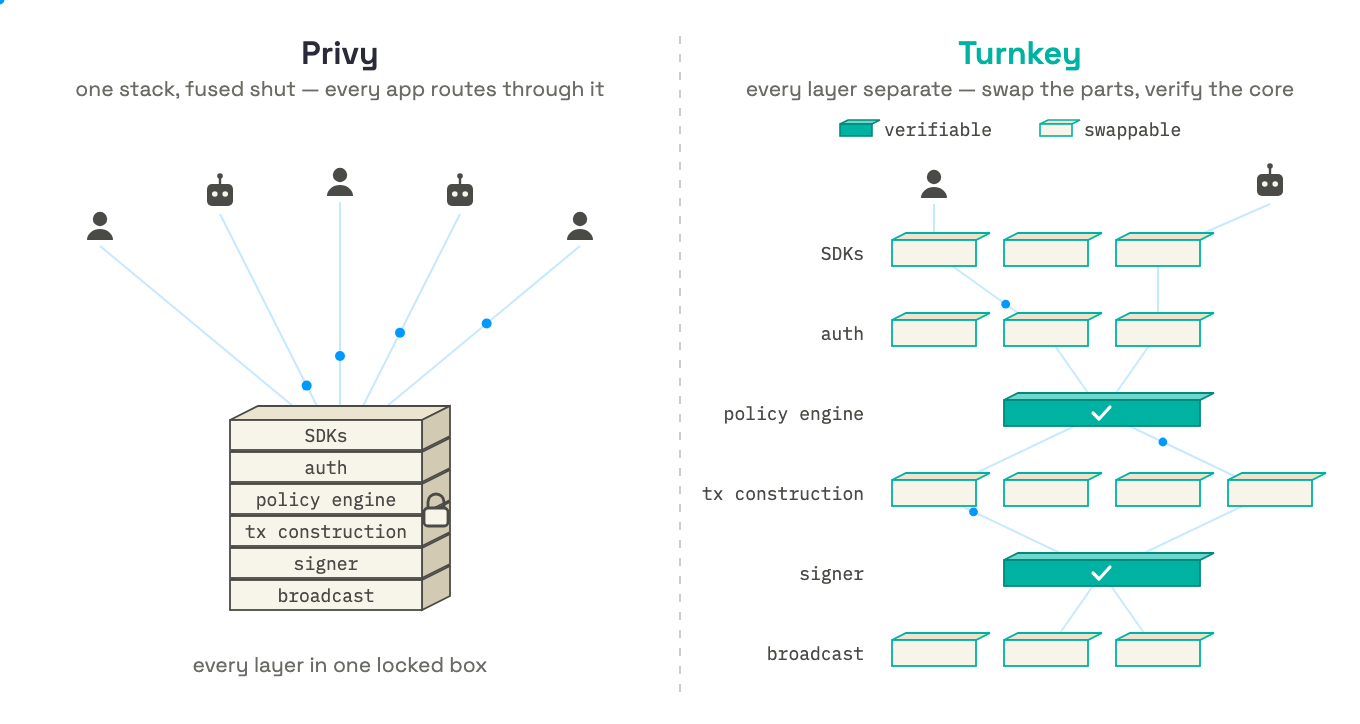
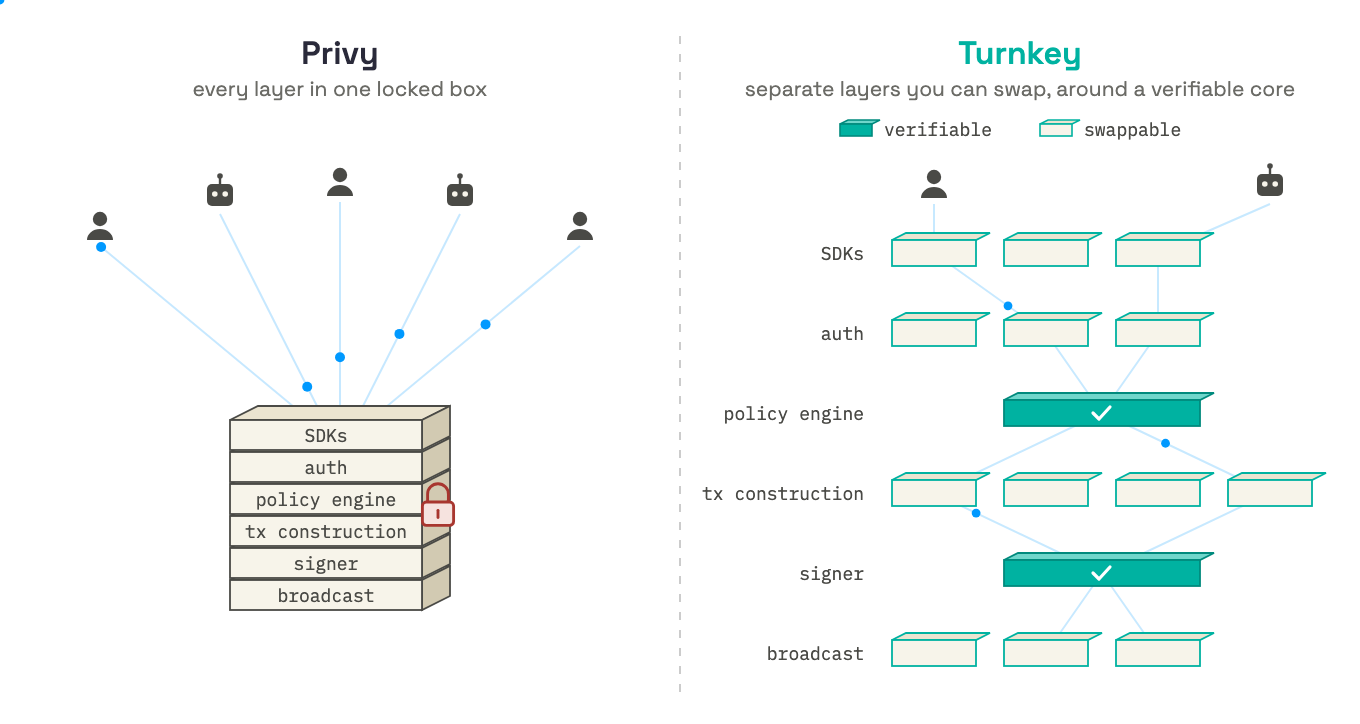
Add dist folder and github pages to host content

diff --git a/dist/index.html b/dist/index.html
@@ -1,1 +1,15 @@
+<!doctype html>
+<html lang="en">
+<head>
+<meta charset="utf-8">
+<meta name="viewport" content="width=device-width, initial-scale=1">
+<title>Turnkey vs Privy</title>
+<link rel="stylesheet" href="https://fonts.googleapis.com/css2?family=Space+Grotesk:wght@400;600&family=IBM+Plex+Mono:wght@400&display=swap">
+<style>body{margin:0;background:#fff;padding:32px 16px}main{max-width:960px;margin:0 auto}main svg{width:100%;height:auto;display:block}</style>
+</head>
+<body>
+<main>
 <svg xmlns="http://www.w3.org/2000/svg" class="tvp" viewBox="0 0 680 362" role="img" aria-label="Privy versus Turnkey. Left, Privy: five users and agents stream blue data dots into the top of one padlocked tower, where SDKs, auth, policy engine, transaction construction, signer and broadcast are fused into one block. Right, Turnkey: the same six layers are separate shelves. SDKs, auth, transaction construction and broadcast each hold several swappable parts; the policy engine and signer are solid teal verifiable Turnkey parts. A user and an agent each enter through an SDK and trace their own path down the shelves, sharing the same verifiable policy engine and signer"><style>@import url("https://fonts.googleapis.com/css2?family=Space+Grotesk:wght@400;600&amp;family=IBM+Plex+Mono:wght@400&amp;display=swap");.tvp .slbl{font:600 16px "Space Grotesk","Avenir Next",system-ui,sans-serif;fill:#2a2a3a}.tvp .ssub{font:400 10.5px "Space Grotesk","Avenir Next",system-ui,sans-serif;fill:#6b6b66}.tvp .stiny{font:400 9px "IBM Plex Mono",ui-monospace,Menlo,monospace;fill:#4a4a46}</style><rect width="680" height="362" fill="#fff"/><text x="170" y="32" class="slbl" text-anchor="middle">Privy</text><text x="170" y="48" class="ssub" text-anchor="middle">every layer in one locked box</text><text x="510" y="32" class="slbl" text-anchor="middle" style="fill:#00b2a1">Turnkey</text><text x="510" y="48" class="ssub" text-anchor="middle">separate layers you can swap, around a verifiable core</text><line x1="340" y1="18" x2="340" y2="348" stroke="#ccc" stroke-dasharray="4 5"/><polygon points="420,62 424,60.0 440,60.0 436,62" fill="#6fd6cb" stroke="#008a7d" stroke-width=".8"/><rect x="420" y="62" width="16" height="6" fill="#00b2a1" stroke="#008a7d" stroke-width=".8"/><text x="442" y="68" class="stiny">verifiable</text><polygon points="520,62 524,60.0 540,60.0 536,62" fill="#ebe4d0" stroke="#00b2a1" stroke-width=".8"/><rect x="520" y="62" width="16" height="6" fill="#f7f4ea" stroke="#00b2a1" stroke-width=".8"/><text x="542" y="68" class="stiny">swappable</text><line x1="50" y1="123" x2="150" y2="206" stroke="#09f" stroke-width="1" opacity=".22"/><circle r="2.5" fill="#09f"><animateMotion dur="3s" begin="0.0s" repeatCount="indefinite" path="M 50 123 L 150 206"/></circle><line x1="110" y1="107" x2="160" y2="206" stroke="#09f" stroke-width="1" opacity=".22"/><circle r="2.5" fill="#09f"><animateMotion dur="3s" begin="0.4s" repeatCount="indefinite" path="M 110 107 L 160 206"/></circle><line x1="170" y1="101" x2="170" y2="206" stroke="#09f" stroke-width="1" opacity=".22"/><circle r="2.5" fill="#09f"><animateMotion dur="3s" begin="0.8s" repeatCount="indefinite" path="M 170 101 L 170 206"/></circle><line x1="230" y1="107" x2="180" y2="206" stroke="#09f" stroke-width="1" opacity=".22"/><circle r="2.5" fill="#09f"><animateMotion dur="3s" begin="1.2000000000000002s" repeatCount="indefinite" path="M 230 107 L 180 206"/></circle><line x1="290" y1="123" x2="190" y2="206" stroke="#09f" stroke-width="1" opacity=".22"/><circle r="2.5" fill="#09f"><animateMotion dur="3s" begin="1.6s" repeatCount="indefinite" path="M 290 123 L 190 206"/></circle><polygon points="115,290 129,283.0 225,283.0 211,290" fill="#ebe4d0" stroke="#4a4a46" stroke-width=".9"/><polygon points="211,290 225,283.0 225,298.0 211,305" fill="#d2cab2" stroke="#4a4a46" stroke-width=".9"/><rect x="115" y="290" width="96" height="15" fill="#f7f4ea" stroke="#4a4a46" stroke-width=".9"/><text x="163" y="301" class="stiny" text-anchor="middle">broadcast</text><polygon points="115,274 129,267.0 225,267.0 211,274" fill="#ebe4d0" stroke="#4a4a46" stroke-width=".9"/><polygon points="211,274 225,267.0 225,282.0 211,289" fill="#d2cab2" stroke="#4a4a46" stroke-width=".9"/><rect x="115" y="274" width="96" height="15" fill="#f7f4ea" stroke="#4a4a46" stroke-width=".9"/><text x="163" y="285" class="stiny" text-anchor="middle">signer</text><polygon points="115,258 129,251.0 225,251.0 211,258" fill="#ebe4d0" stroke="#4a4a46" stroke-width=".9"/><polygon points="211,258 225,251.0 225,266.0 211,273" fill="#d2cab2" stroke="#4a4a46" stroke-width=".9"/><rect x="115" y="258" width="96" height="15" fill="#f7f4ea" stroke="#4a4a46" stroke-width=".9"/><text x="163" y="269" class="stiny" text-anchor="middle">tx construction</text><polygon points="115,242 129,235.0 225,235.0 211,242" fill="#ebe4d0" stroke="#4a4a46" stroke-width=".9"/><polygon points="211,242 225,235.0 225,250.0 211,257" fill="#d2cab2" stroke="#4a4a46" stroke-width=".9"/><rect x="115" y="242" width="96" height="15" fill="#f7f4ea" stroke="#4a4a46" stroke-width=".9"/><text x="163" y="253" class="stiny" text-anchor="middle">policy engine</text><polygon points="115,226 129,219.0 225,219.0 211,226" fill="#ebe4d0" stroke="#4a4a46" stroke-width=".9"/><polygon points="211,226 225,219.0 225,234.0 211,241" fill="#d2cab2" stroke="#4a4a46" stroke-width=".9"/><rect x="115" y="226" width="96" height="15" fill="#f7f4ea" stroke="#4a4a46" stroke-width=".9"/><text x="163" y="237" class="stiny" text-anchor="middle">auth</text><polygon points="115,210 129,203.0 225,203.0 211,210" fill="#ebe4d0" stroke="#4a4a46" stroke-width=".9"/><polygon points="211,210 225,203.0 225,218.0 211,225" fill="#d2cab2" stroke="#4a4a46" stroke-width=".9"/><rect x="115" y="210" width="96" height="15" fill="#f7f4ea" stroke="#4a4a46" stroke-width=".9"/><text x="163" y="221" class="stiny" text-anchor="middle">SDKs</text><g transform="translate(219,251) scale(1.3)" stroke="#a8362f" stroke-width="1.1"><path d="M-4 0v-3a4 4 0 018 0v3" fill="none"/><rect x="-6" y="0" width="12" height="9" rx="1.5" fill="#f6e3df"/><path d="M0 3.2v2.8" stroke-linecap="round"/></g><g transform="translate(50,114)" fill="#4a4a46"><circle cy="-4.5" r="3.6"/><path d="M-6.5 6a6.5 5.5 0 0 1 13 0z"/></g><g transform="translate(110,98)" fill="#4a4a46"><path d="M0-6v-3" stroke="#4a4a46" stroke-width="1.2"/><circle cy="-10" r="1.4"/><rect x="-6.5" y="-6" width="13" height="11" rx="2.5"/><circle cx="-2.6" cy="-1" r="1.4" fill="#f7f4ea"/><circle cx="2.6" cy="-1" r="1.4" fill="#f7f4ea"/></g><g transform="translate(170,92)" fill="#4a4a46"><circle cy="-4.5" r="3.6"/><path d="M-6.5 6a6.5 5.5 0 0 1 13 0z"/></g><g transform="translate(230,98)" fill="#4a4a46"><path d="M0-6v-3" stroke="#4a4a46" stroke-width="1.2"/><circle cy="-10" r="1.4"/><rect x="-6.5" y="-6" width="13" height="11" rx="2.5"/><circle cx="-2.6" cy="-1" r="1.4" fill="#f7f4ea"/><circle cx="2.6" cy="-1" r="1.4" fill="#f7f4ea"/></g><g transform="translate(290,114)" fill="#4a4a46"><circle cy="-4.5" r="3.6"/><path d="M-6.5 6a6.5 5.5 0 0 1 13 0z"/></g><path d="M 467 102 L 467 126.5 L 523 166.5 L 551 206.5 L 467 246.5 L 551 286.5 L 523 326.5" fill="none" stroke="#09f" stroke-width="1" opacity=".22"/><path d="M 635 102 L 579 126.5 L 579 166.5 L 551 206.5 L 635 246.5 L 551 286.5 L 579 326.5" fill="none" stroke="#09f" stroke-width="1" opacity=".22"/><circle r="2.2" fill="#09f"><animateMotion dur="4.4s" begin="0.0s" repeatCount="indefinite" path="M 467 102 L 467 126.5 L 523 166.5 L 551 206.5 L 467 246.5 L 551 286.5 L 523 326.5"/></circle><circle r="2.2" fill="#09f"><animateMotion dur="4.4s" begin="2.2s" repeatCount="indefinite" path="M 467 102 L 467 126.5 L 523 166.5 L 551 206.5 L 467 246.5 L 551 286.5 L 523 326.5"/></circle><circle r="2.2" fill="#09f"><animateMotion dur="4.4s" begin="0.9s" repeatCount="indefinite" path="M 635 102 L 579 126.5 L 579 166.5 L 551 206.5 L 635 246.5 L 551 286.5 L 579 326.5"/></circle><circle r="2.2" fill="#09f"><animateMotion dur="4.4s" begin="3.1s" repeatCount="indefinite" path="M 635 102 L 579 126.5 L 579 166.5 L 551 206.5 L 635 246.5 L 551 286.5 L 579 326.5"/></circle><text x="432" y="130" class="stiny" text-anchor="end">SDKs</text><polygon points="446,120 453,116.5 495,116.5 488,120" fill="#ebe4d0" stroke="#00b2a1" stroke-width=".9"/><rect x="446" y="120" width="42" height="13" fill="#f7f4ea" stroke="#00b2a1" stroke-width=".9"/><polygon points="502,120 509,116.5 551,116.5 544,120" fill="#ebe4d0" stroke="#00b2a1" stroke-width=".9"/><rect x="502" y="120" width="42" height="13" fill="#f7f4ea" stroke="#00b2a1" stroke-width=".9"/><polygon points="558,120 565,116.5 607,116.5 600,120" fill="#ebe4d0" stroke="#00b2a1" stroke-width=".9"/><rect x="558" y="120" width="42" height="13" fill="#f7f4ea" stroke="#00b2a1" stroke-width=".9"/><text x="432" y="170" class="stiny" text-anchor="end">auth</text><polygon points="446,160 453,156.5 495,156.5 488,160" fill="#ebe4d0" stroke="#00b2a1" stroke-width=".9"/><rect x="446" y="160" width="42" height="13" fill="#f7f4ea" stroke="#00b2a1" stroke-width=".9"/><polygon points="502,160 509,156.5 551,156.5 544,160" fill="#ebe4d0" stroke="#00b2a1" stroke-width=".9"/><rect x="502" y="160" width="42" height="13" fill="#f7f4ea" stroke="#00b2a1" stroke-width=".9"/><polygon points="558,160 565,156.5 607,156.5 600,160" fill="#ebe4d0" stroke="#00b2a1" stroke-width=".9"/><rect x="558" y="160" width="42" height="13" fill="#f7f4ea" stroke="#00b2a1" stroke-width=".9"/><text x="432" y="210" class="stiny" text-anchor="end">policy engine</text><polygon points="502,200 509,196.5 607,196.5 600,200" fill="#6fd6cb" stroke="#008a7d" stroke-width=".9"/><rect x="502" y="200" width="98" height="13" fill="#00b2a1" stroke="#008a7d" stroke-width=".9"/><path d="M546.5 206.5l3 3 5.5-6" fill="none" stroke="#fff" stroke-width="1.6" stroke-linecap="round" stroke-linejoin="round"/><text x="432" y="250" class="stiny" text-anchor="end">tx construction</text><polygon points="446,240 453,236.5 495,236.5 488,240" fill="#ebe4d0" stroke="#00b2a1" stroke-width=".9"/><rect x="446" y="240" width="42" height="13" fill="#f7f4ea" stroke="#00b2a1" stroke-width=".9"/><polygon points="502,240 509,236.5 551,236.5 544,240" fill="#ebe4d0" stroke="#00b2a1" stroke-width=".9"/><rect x="502" y="240" width="42" height="13" fill="#f7f4ea" stroke="#00b2a1" stroke-width=".9"/><polygon points="558,240 565,236.5 607,236.5 600,240" fill="#ebe4d0" stroke="#00b2a1" stroke-width=".9"/><rect x="558" y="240" width="42" height="13" fill="#f7f4ea" stroke="#00b2a1" stroke-width=".9"/><polygon points="614,240 621,236.5 663,236.5 656,240" fill="#ebe4d0" stroke="#00b2a1" stroke-width=".9"/><rect x="614" y="240" width="42" height="13" fill="#f7f4ea" stroke="#00b2a1" stroke-width=".9"/><text x="432" y="290" class="stiny" text-anchor="end">signer</text><polygon points="502,280 509,276.5 607,276.5 600,280" fill="#6fd6cb" stroke="#008a7d" stroke-width=".9"/><rect x="502" y="280" width="98" height="13" fill="#00b2a1" stroke="#008a7d" stroke-width=".9"/><path d="M546.5 286.5l3 3 5.5-6" fill="none" stroke="#fff" stroke-width="1.6" stroke-linecap="round" stroke-linejoin="round"/><text x="432" y="330" class="stiny" text-anchor="end">broadcast</text><polygon points="446,320 453,316.5 495,316.5 488,320" fill="#ebe4d0" stroke="#00b2a1" stroke-width=".9"/><rect x="446" y="320" width="42" height="13" fill="#f7f4ea" stroke="#00b2a1" stroke-width=".9"/><polygon points="502,320 509,316.5 551,316.5 544,320" fill="#ebe4d0" stroke="#00b2a1" stroke-width=".9"/><rect x="502" y="320" width="42" height="13" fill="#f7f4ea" stroke="#00b2a1" stroke-width=".9"/><polygon points="558,320 565,316.5 607,316.5 600,320" fill="#ebe4d0" stroke="#00b2a1" stroke-width=".9"/><rect x="558" y="320" width="42" height="13" fill="#f7f4ea" stroke="#00b2a1" stroke-width=".9"/><g transform="translate(467,93)" fill="#4a4a46"><circle cy="-4.5" r="3.6"/><path d="M-6.5 6a6.5 5.5 0 0 1 13 0z"/></g><g transform="translate(635,93)" fill="#4a4a46"><path d="M0-6v-3" stroke="#4a4a46" stroke-width="1.2"/><circle cy="-10" r="1.4"/><rect x="-6.5" y="-6" width="13" height="11" rx="2.5"/><circle cx="-2.6" cy="-1" r="1.4" fill="#f7f4ea"/><circle cx="2.6" cy="-1" r="1.4" fill="#f7f4ea"/></g></svg>
+</main>
+</body>
+</html>

diff --git a/index.template.html b/index.template.html
@@ -1,0 +1,15 @@
+<!doctype html>
+<html lang="en">
+<head>
+<meta charset="utf-8">
+<meta name="viewport" content="width=device-width, initial-scale=1">
+<title>Turnkey vs Privy</title>
+<link rel="stylesheet" href="https://fonts.googleapis.com/css2?family=Space+Grotesk:wght@400;600&family=IBM+Plex+Mono:wght@400&display=swap">
+<style>body{margin:0;background:#fff;padding:32px 16px}main{max-width:960px;margin:0 auto}main svg{width:100%;height:auto;display:block}</style>
+</head>
+<body>
+<main>
+<!-- figure.svg -->
+</main>
+</body>
+</html>

diff --git a/README.md b/README.md
@@ -1,0 +1,11 @@
+# Turnkey: scaling trust
+
+An animated diagram comparing the two stacks: Privy v Turnkey
+
+Live page: https://r-n-o.github.io/turnkey-scaling-trust/
+
+Inspired by diagrams from https://scalingtrust.org.uk/blog/without-intermediaries
+
+## Updating
+
+Edit `figure.svg`, then run `make` to rebuild `dist/index.html` from `index.template.html`. Pushing to `main` deploys `dist/`.
